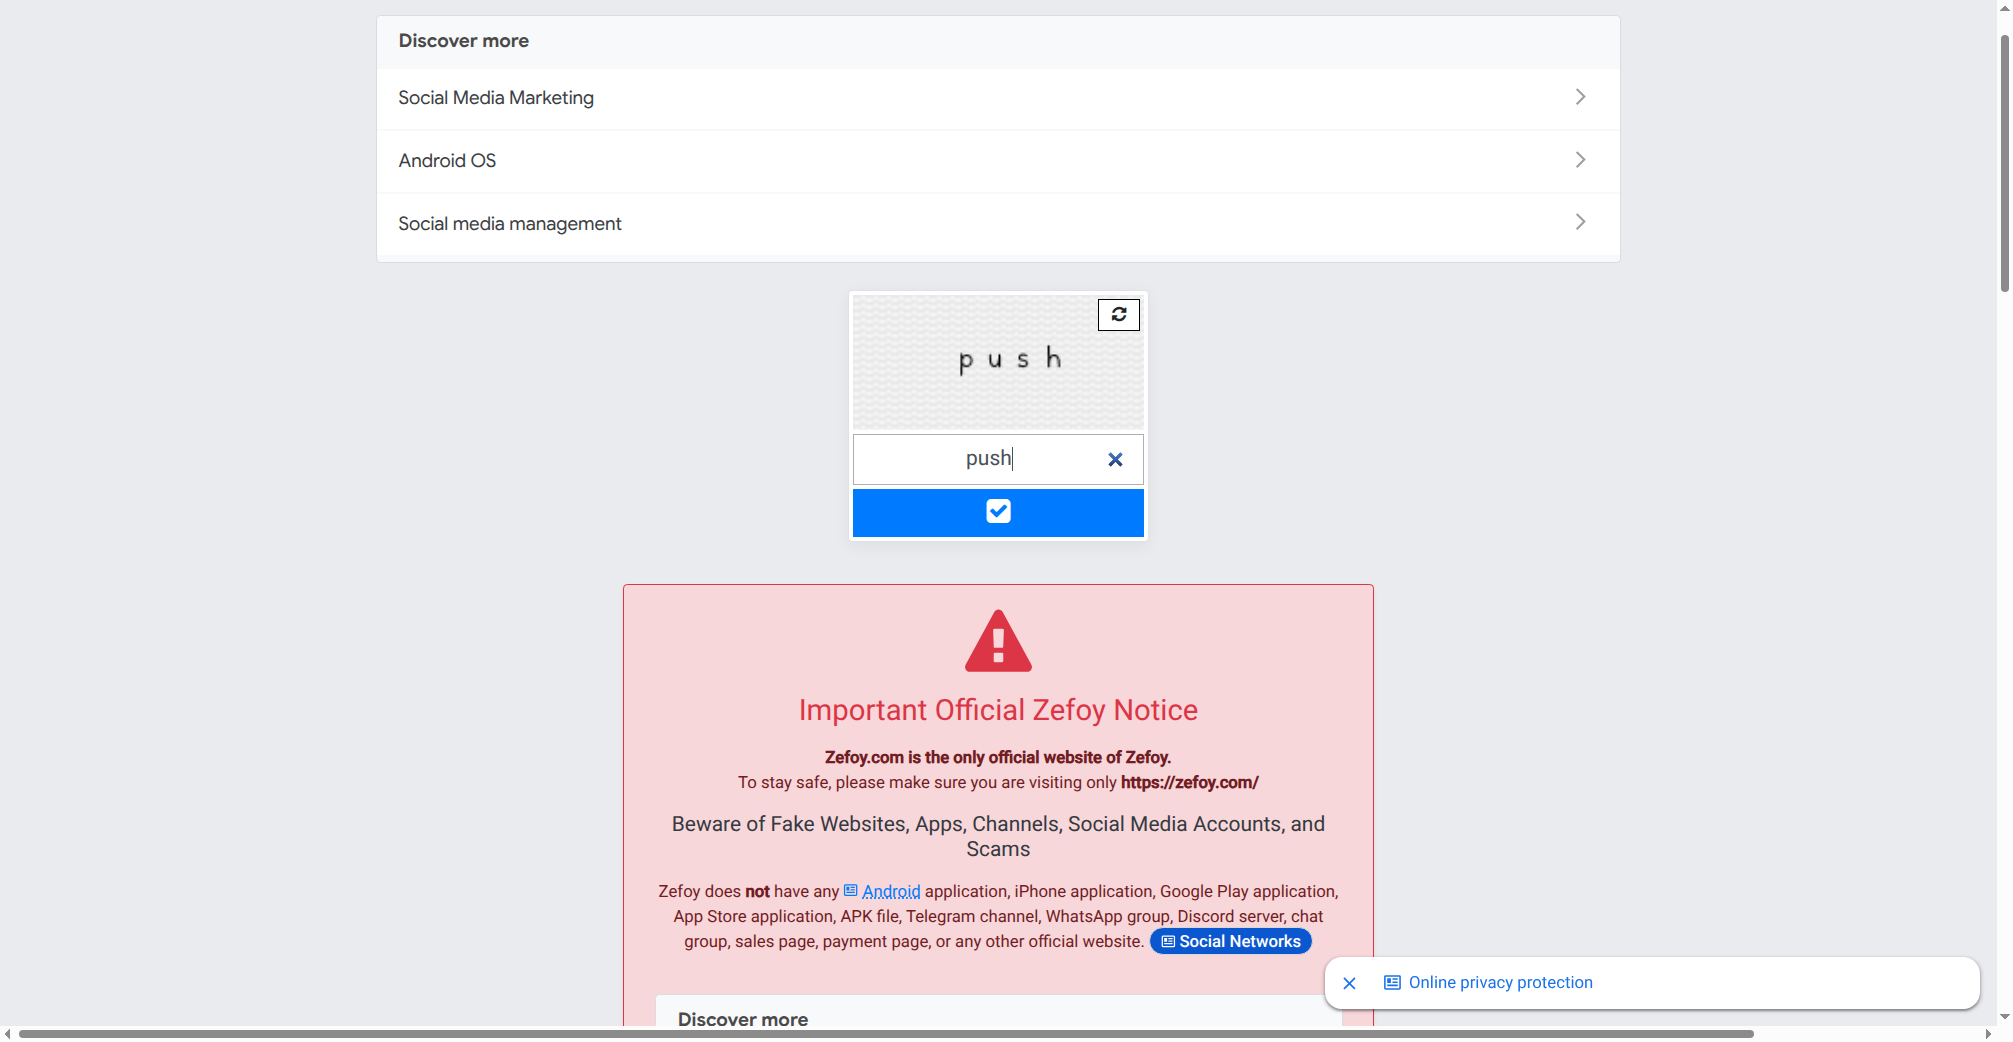
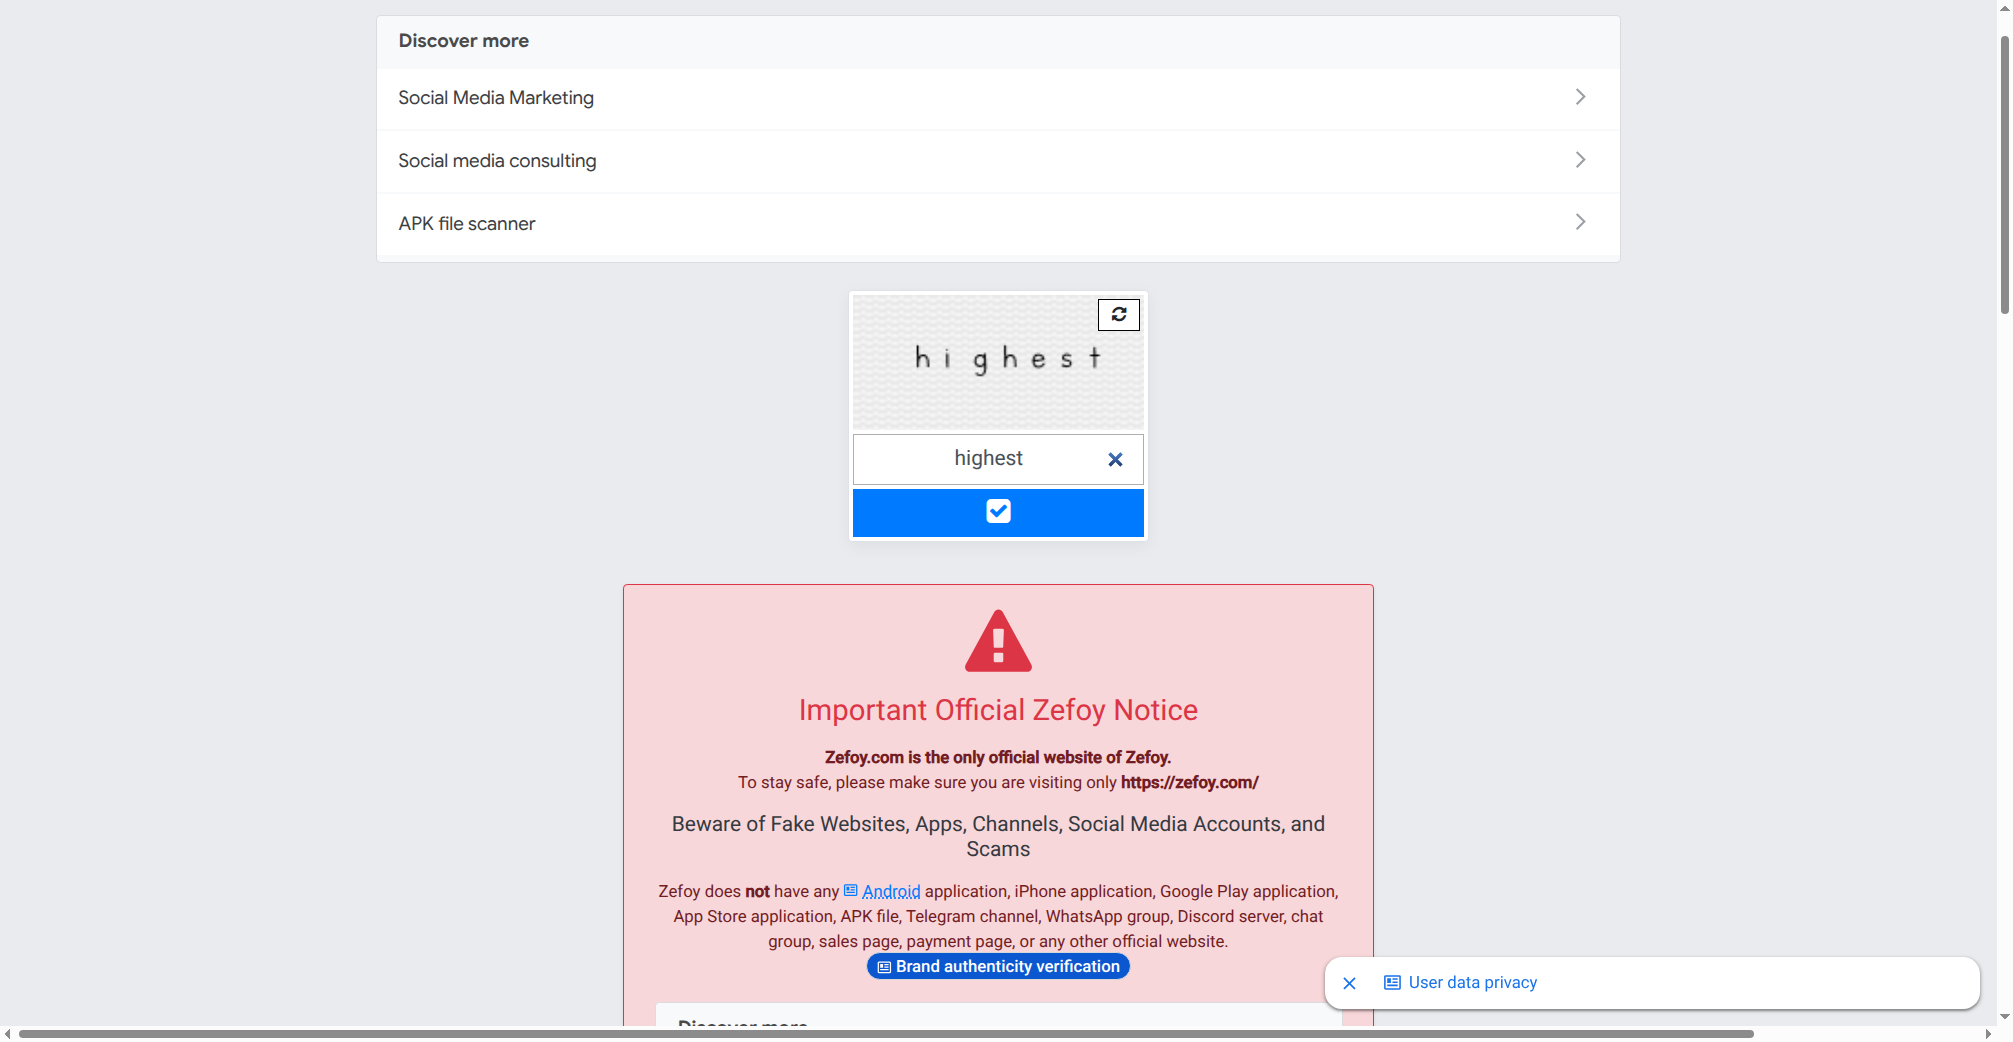
Ci

diff --git a/main.py b/main.py
@@ -223,6 +223,12 @@ class TikTokBooster:
                             f"{Fore.WHITE}{Style.BRIGHT}Views: {Style.RESET_ALL}{Fore.LIGHTYELLOW_EX}{record['views_before']} {Fore.WHITE}-> {Fore.GREEN}{record['views_after']} {Fore.RESET}\n"
                             f"{Fore.WHITE}{Style.BRIGHT}Last Time Used: {Style.RESET_ALL}{record['last_time_used']}{Fore.RESET}")
                         
+                if AUTO_START:
+                    print(f"{INFO}AUTO_START enabled — skipping history selection, using config URL.{Style.RESET_ALL}")
+                    self.history_selected = False
+                    VIDEO = ""
+                    break
+
                 try:
                     choice = int(input(f"\n{ProgramUsage.Translations("history",1)}{Fore.RED} {ProgramUsage.Translations("history",2)} {Style.RESET_ALL}"))
                     if choice == 0:
@@ -815,13 +821,23 @@ class TikTokBooster:
         return self.driver.execute_script(script)
 
     def _js_fill_input(self, value, timeout=10):
-        """Clear and fill the first visible input field in the active panel."""
+        """Clear and fill the first visible input inside the active Zefoy panel.
+        Skips inputs that are inside a <form> element (those belong to captcha).
+        """
         script = """
         var inputs = document.querySelectorAll('input');
         for (var i = 0; i < inputs.length; i++) {
             var inp = inputs[i];
             var st = window.getComputedStyle(inp);
             if (st.display === 'none' || st.visibility === 'hidden') continue;
+            // Skip inputs inside a <form> — those are captcha fields, not the video URL field
+            var inForm = false;
+            var p = inp.parentElement;
+            while (p) {
+                if (p.tagName && p.tagName.toLowerCase() === 'form') { inForm = true; break; }
+                p = p.parentElement;
+            }
+            if (inForm) continue;
             inp.focus();
             inp.value = arguments[0];
             inp.dispatchEvent(new Event('input', {bubbles: true}));
@@ -1324,7 +1340,32 @@ class TikTokBooster:
                 for _ in range(AMOUNT):
                     self.User_Session.send_heartbeat()
                     self.remove_ads_vignette()
-                    os.system("cls") if os.name == 'nt' else os.system("clear")
+
+                    # ── Mid-session captcha check ──────────────────────────────
+                    captcha_visible = self.driver.execute_script("""
+                        var imgs = document.querySelectorAll('form img');
+                        for (var i = 0; i < imgs.length; i++) {
+                            var st = window.getComputedStyle(imgs[i]);
+                            if (st.display !== 'none' && st.visibility !== 'hidden') return true;
+                        }
+                        return false;
+                    """)
+                    if captcha_visible:
+                        print(f"{WARNING}[CAPTCHA] Mid-session captcha detected — solving...{Style.RESET_ALL}")
+                        self._handle_captcha()
+                        time.sleep(2)
+                        self.remove_modal()
+                        # Re-click the Views button after captcha
+                        self._click_type_button()
+                        time.sleep(1)
+                        # Re-fill URL
+                        self._js_fill_input(VIDEO, timeout=15)
+
+                    # Only clear screen when not headless (so logs aren't wiped)
+                    if not AUTO_START and os.name == 'nt':
+                        os.system("cls")
+                    elif not AUTO_START:
+                        os.system("clear")
                     self._show_banner(self.index)
                     time.sleep(0.5)
 
@@ -1415,13 +1456,45 @@ class TikTokBooster:
                                       'favorites': 100, 'hearts': 10}
                         msg_keys   = {'views': 4, 'shares': 5,
                                       'favorites': 6, 'hearts': 7}
+
+                        # ── Verify Zefoy accepted the request ─────────────────
+                        time.sleep(2)
+                        zefoy_response = self.driver.execute_script("""
+                            var texts = [];
+                            document.querySelectorAll('div,p,span,h1,h2,h3,h4,h5,h6,small').forEach(function(el) {
+                                var st = window.getComputedStyle(el);
+                                if (st.display === 'none' || st.visibility === 'hidden') return;
+                                var t = el.innerText ? el.innerText.trim() : '';
+                                if (t.length > 3 && t.length < 200 &&
+                                    el.children.length === 0) {
+                                    texts.push(t);
+                                }
+                            });
+                            return texts.slice(0, 20).join(' | ');
+                        """) or ""
+                        zr_lower = zefoy_response.lower()
+                        sent_ok = any(w in zr_lower for w in [
+                            'success', 'sent', 'submitted', 'processing',
+                            'added', 'complete', 'done', 'thank'
+                        ])
+                        failed = any(w in zr_lower for w in [
+                            'error', 'invalid', 'failed', 'not found', 'wrong'
+                        ])
+
                         if TYPE in increments:
-                            print(
-                                f"{datetime.now().strftime('%H:%M:%S')} "
-                                f"{SUCCESS}{Fore.WHITE}"
-                                f"{ProgramUsage.Translations('main', msg_keys[TYPE])}"
-                                f"{Style.RESET_ALL}")
-                            self.counter += increments[TYPE]
+                            ts = datetime.now().strftime('%H:%M:%S')
+                            if not failed:
+                                print(
+                                    f"{ts} "
+                                    f"{SUCCESS}{Fore.WHITE}"
+                                    f"{ProgramUsage.Translations('main', msg_keys[TYPE])}"
+                                    f"{Style.RESET_ALL}", flush=True)
+                                self.counter += increments[TYPE]
+                            else:
+                                print(f"{ts} {WARNING}[Submit] Zefoy returned error — "
+                                      f"response: {zefoy_response[:120]}{Style.RESET_ALL}", flush=True)
+
+                        print(f"{INFO}[Zefoy response] {zefoy_response[:150]}{Style.RESET_ALL}", flush=True)
 
                         if self.is_webhook_valid and self.counter >= self.each_views:
                             self.webhook.post(content=self.message)
@@ -1430,9 +1503,9 @@ class TikTokBooster:
                     except Exception as e:
                         if "element click intercepted" in str(e).lower():
                             print(f"{Fore.RED}[Error] Click intercepted — "
-                                  f"try HEADLESS=False in config.cfg (ERROR 000){Style.RESET_ALL}")
+                                  f"try HEADLESS=False in config.cfg (ERROR 000){Style.RESET_ALL}", flush=True)
                         else:
-                            print(f"{Fore.RED}[Error] {e}{Style.RESET_ALL}")
+                            print(f"{Fore.RED}[Error] {e}{Style.RESET_ALL}", flush=True)
                         self.driver.refresh()
                         time.sleep(2)
                         self._select_type()
